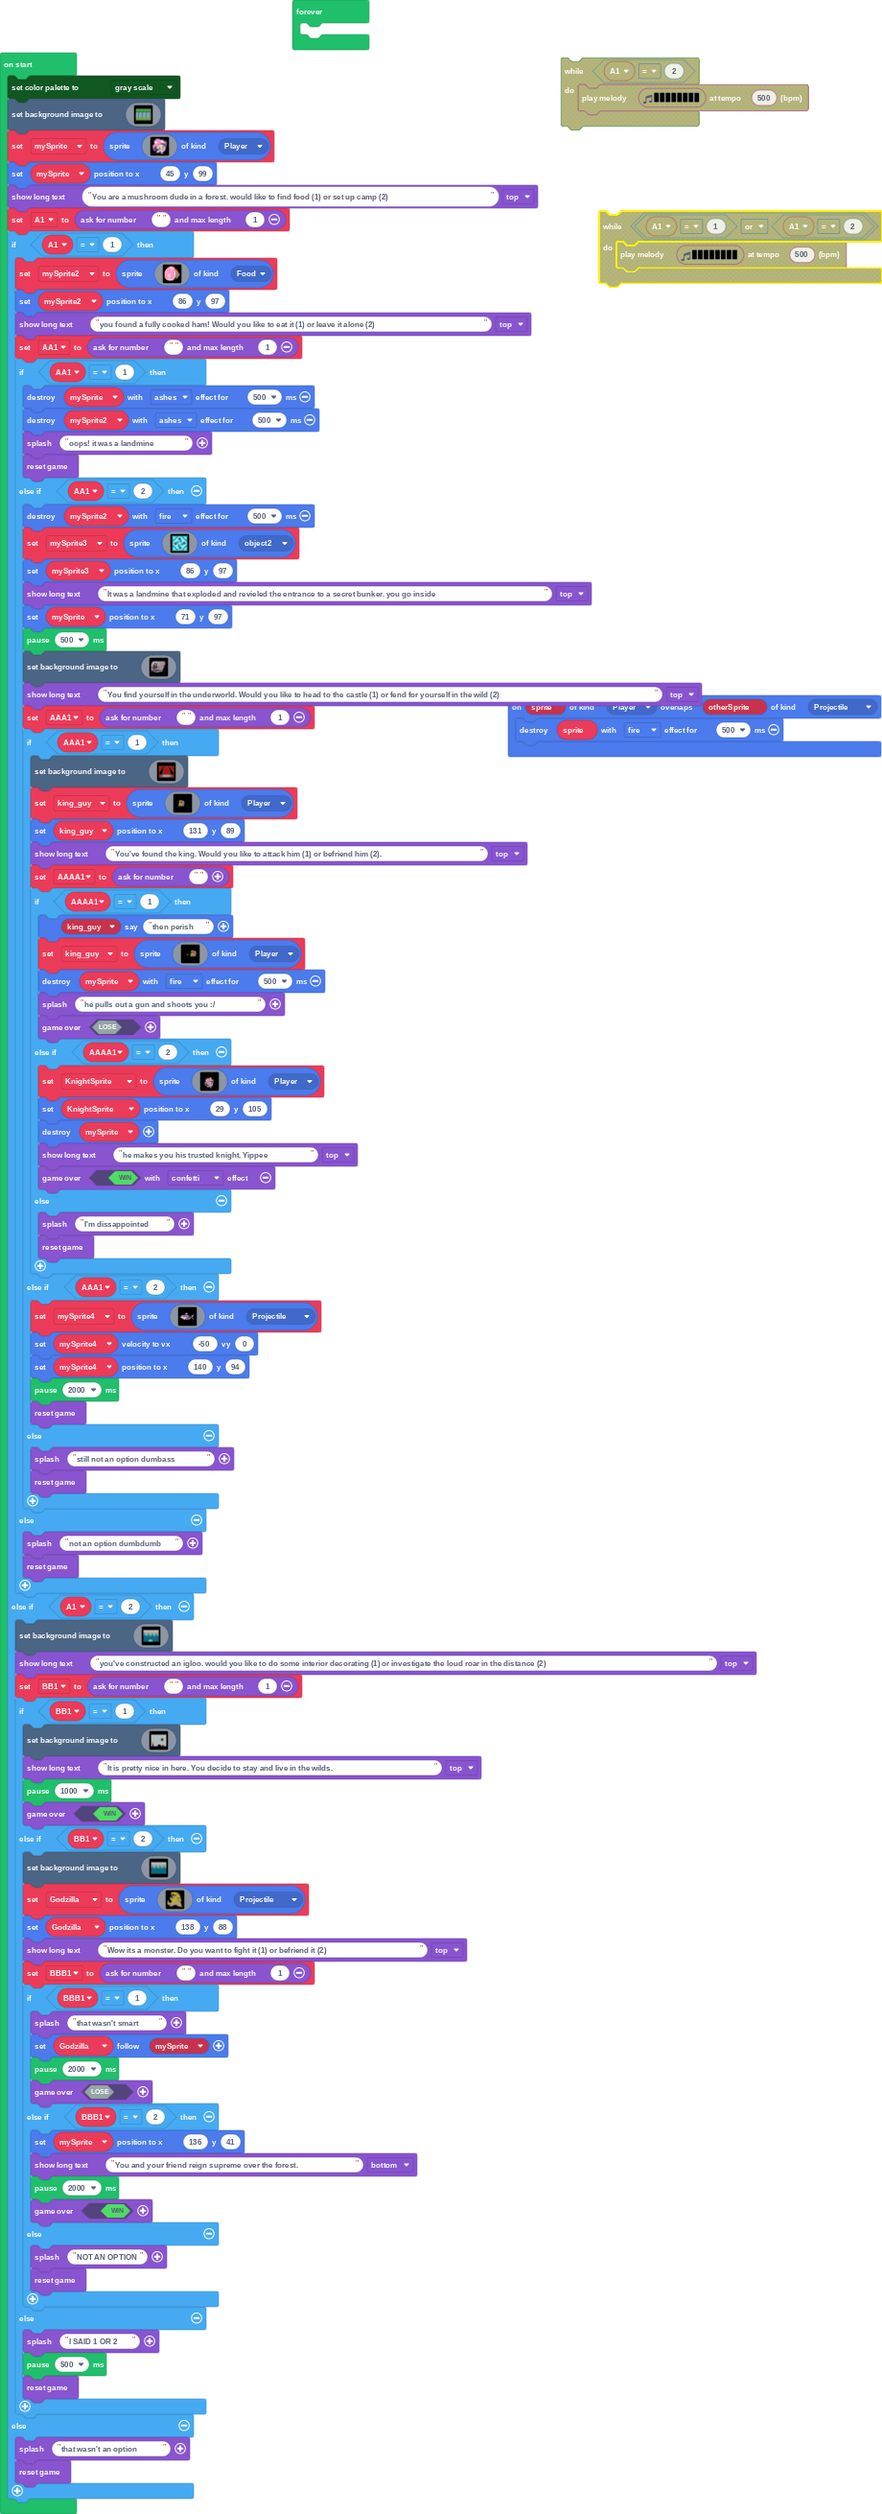
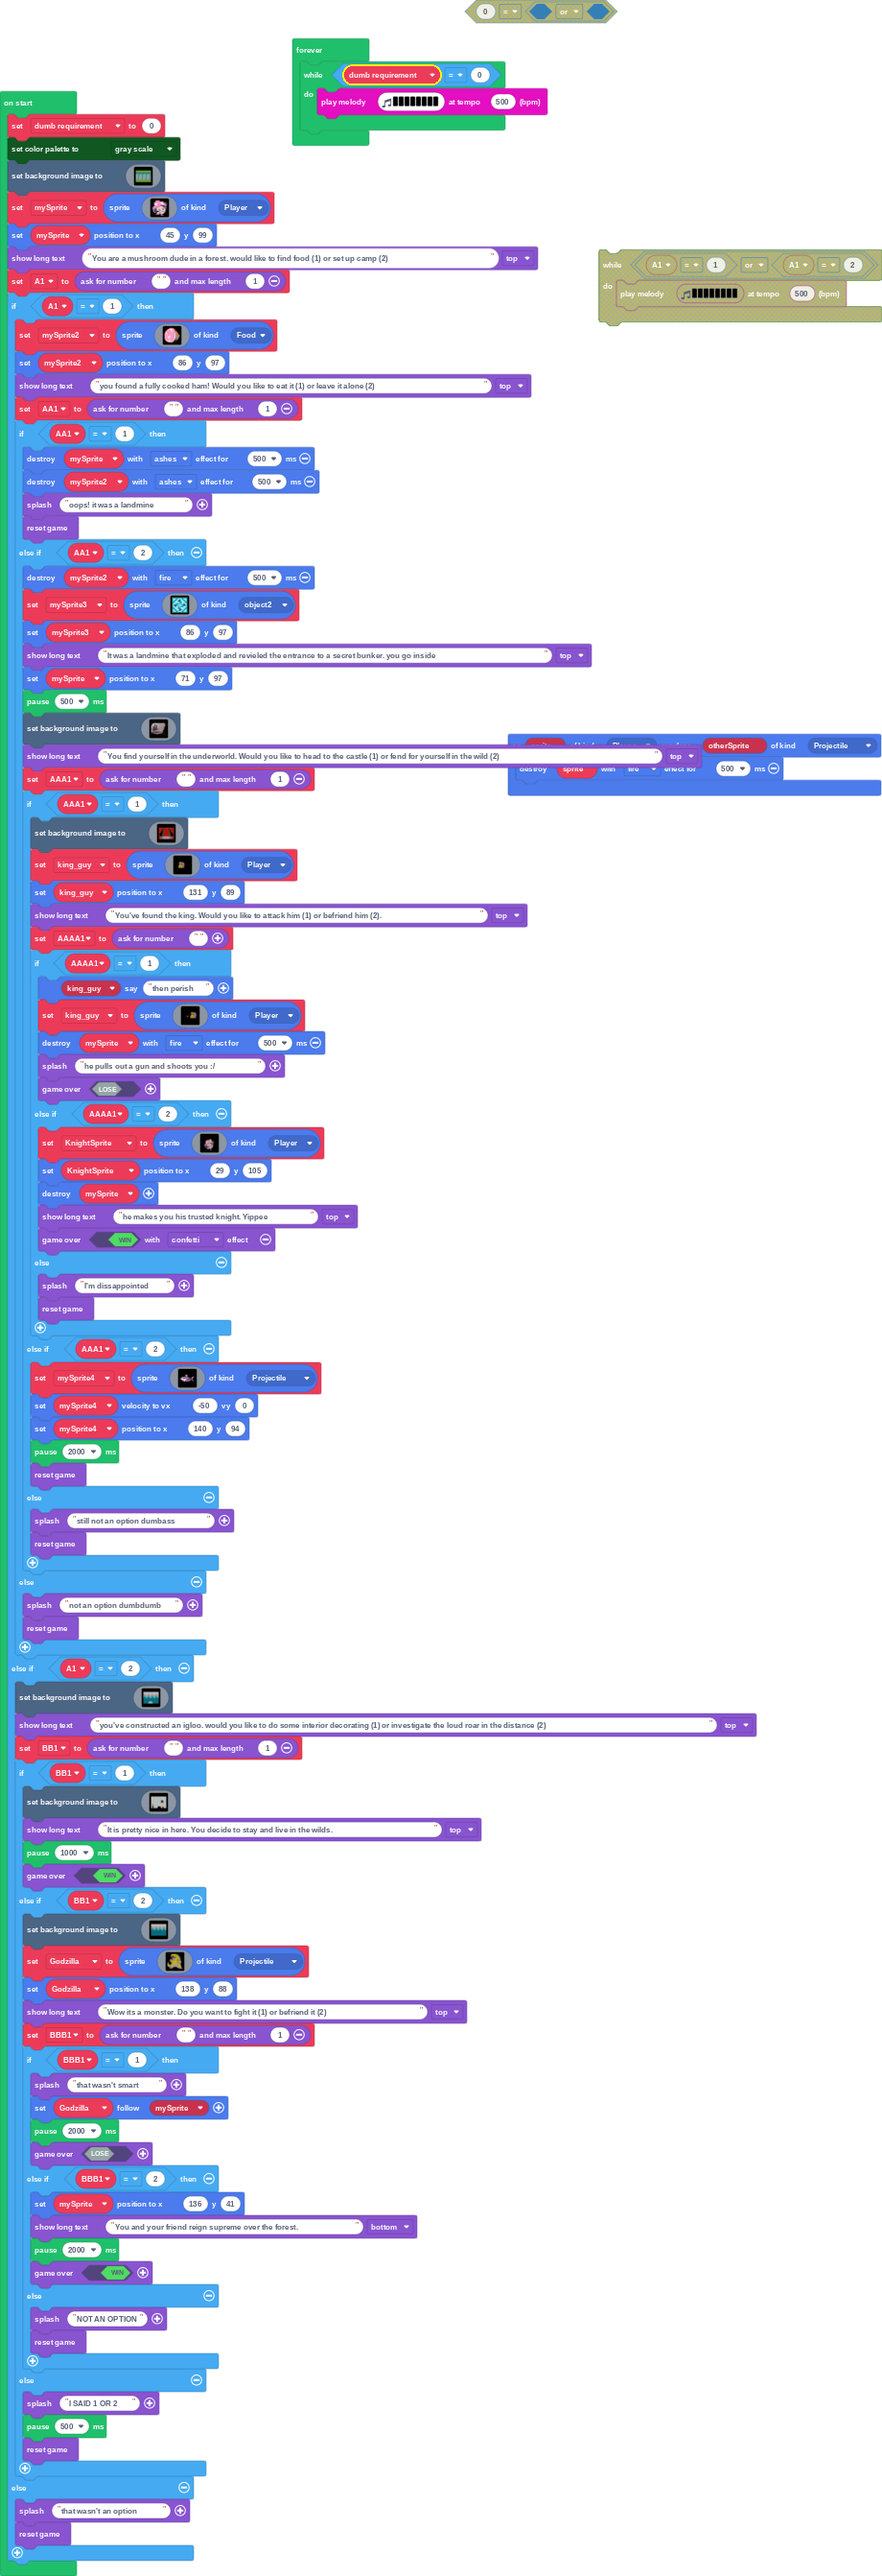
Update main.blocks, main.ts

Changed region(s): [[0.0, 0.0, 1.0, 1.0]]

diff --git a/main.ts b/main.ts
@@ -15,6 +15,7 @@ let AAA1 = 0
 let mySprite3: Sprite = null
 let AA1 = 0
 let mySprite2: Sprite = null
+let dumb_requirement = 0
 color.setPalette(
 color.GrayScale
 )
@@ -1093,5 +1094,7 @@ if (A1 == 1) {
     game.reset()
 }
 forever(function () {
-	
+    while (dumb_requirement == 0) {
+        music.playMelody("A G F G F E D E ", 500)
+    }
 })
